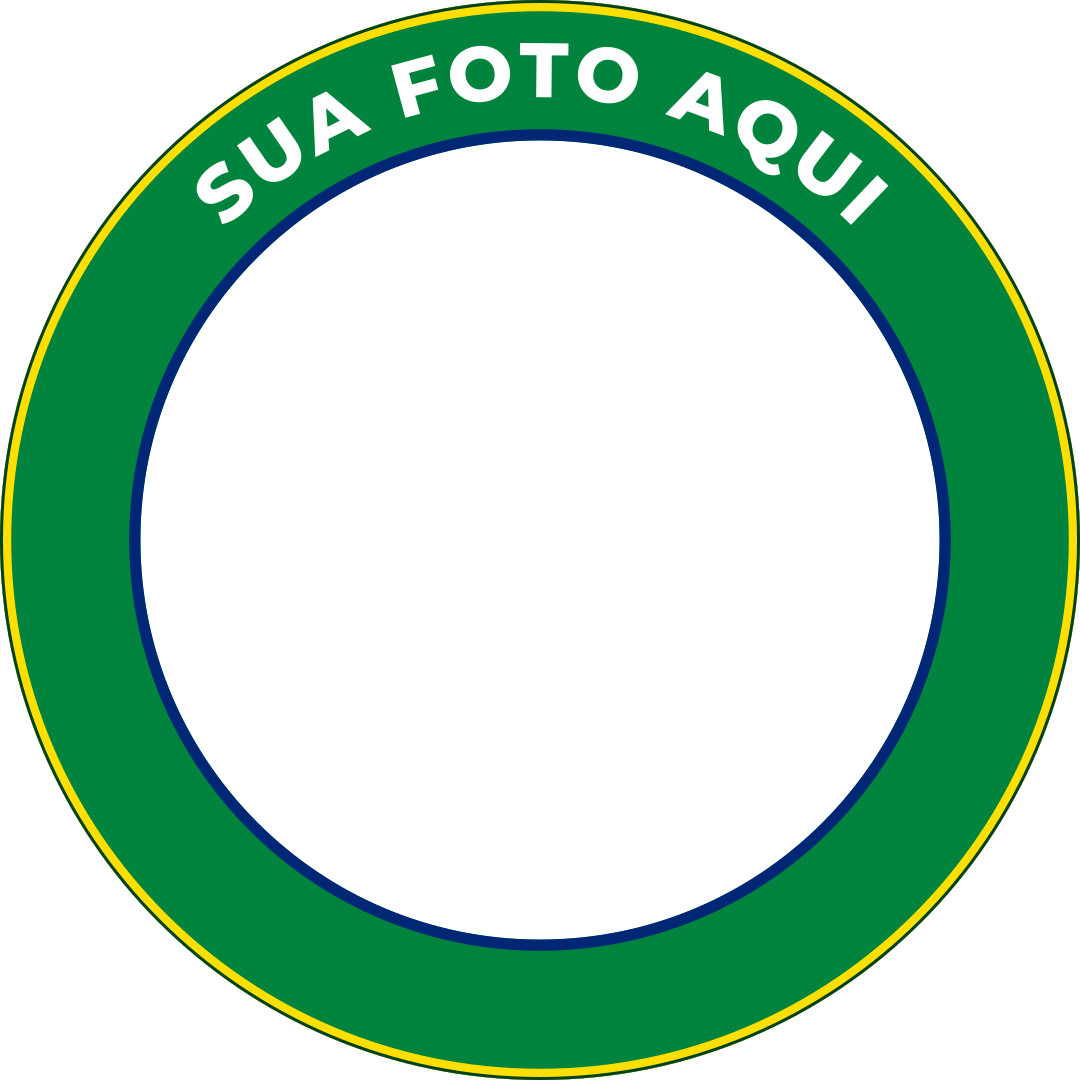
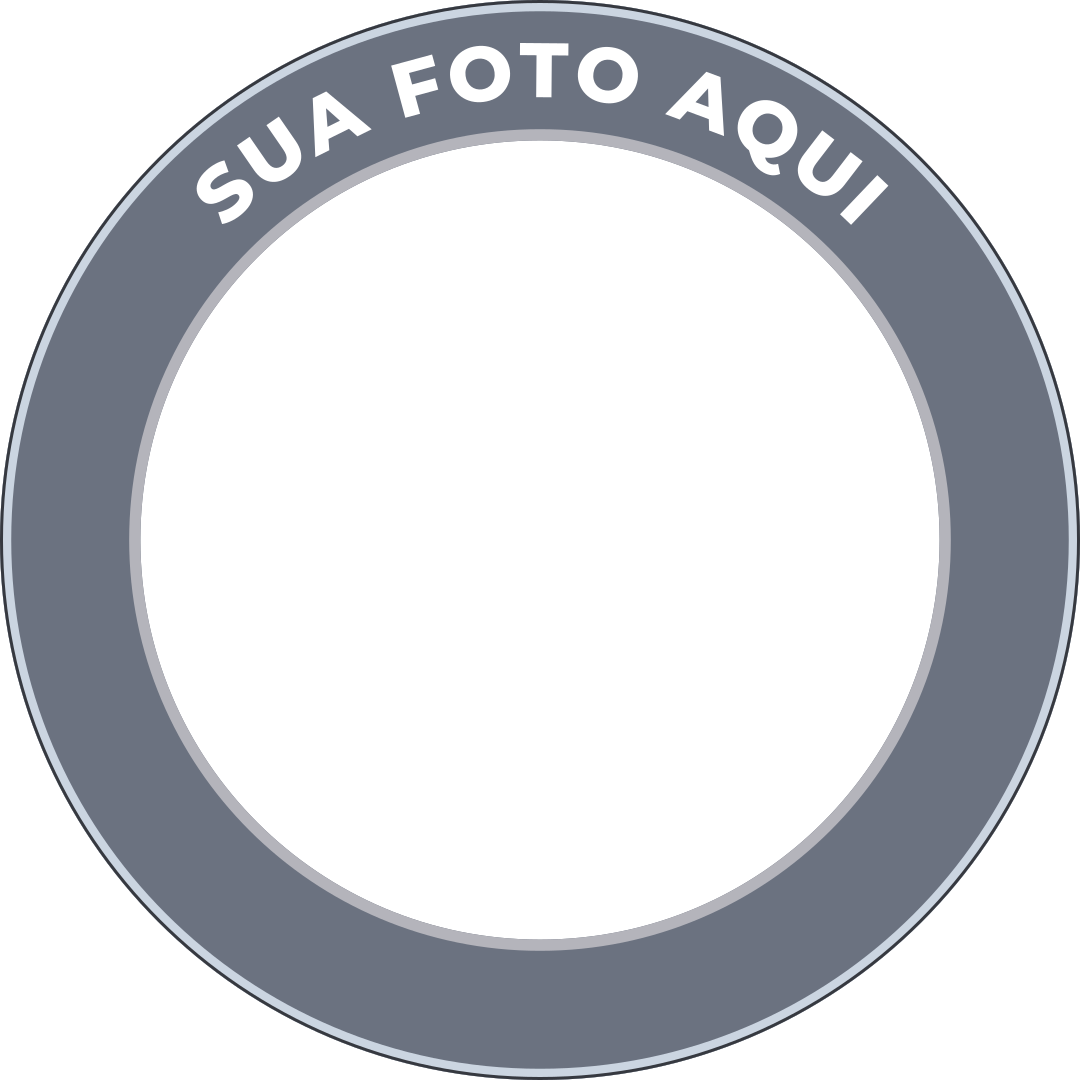
fix: moldura neutra em grafite, twoColor so na Missao e /criar sem pre-selecao
A moldura neutra deixa de lembrar qualquer partido (teste contra todas
as cores de todos os partidos). Party.twoColor marca o unico partido de
duas cores. /criar sem ?c= valido mostra "Escolha uma moldura...", a
moldura neutra com silhueta e bloqueia o pagamento ate escolher. Com
movimento reduzido o hero monta so o slide neutro.

diff --git a/web/src/app/criar/FrameEditor.tsx b/web/src/app/criar/FrameEditor.tsx
@@ -7,6 +7,7 @@ import { CANDIDATES, FRAME_SIZE, MAX_ZOOM, PHOTO_MAX_BYTES, PHOTO_MIME_TYPES, PR
 import type { Framing } from "@moldura/common";
 import { createOrder, messageOf } from "@/lib/api";
 import { sortCandidatesAlphabetically } from "@/lib/candidate-order";
+import { canSubmit, previewFrameSrc } from "@/lib/frame-choice";
 import { OFFICE_OPTIONS } from "@/lib/offices";
 import { drawPreview } from "@/lib/preview";
 
@@ -49,7 +50,7 @@ export function FrameEditor({ initialCandidateId }: { initialCandidateId: string
         setError(FRAME_ERROR);
       }
     };
-    element.src = `/frames/${candidateId}.png`;
+    element.src = previewFrameSrc(candidateId);
 
     return () => {
       active = false;
@@ -172,7 +173,7 @@ export function FrameEditor({ initialCandidateId }: { initialCandidateId: string
   const candidateName = CANDIDATES.find((candidate) => candidate.id === candidateId)?.name ?? "";
 
   async function submit() {
-    if (!file || !frameReady) {
+    if (!file || !canSubmit({ candidateId, hasFile: true, hasImage: image !== null, frameReady, busy })) {
       return;
     }
 
@@ -204,7 +205,7 @@ export function FrameEditor({ initialCandidateId }: { initialCandidateId: string
         onKeyDown={moveByKey}
         role="img"
         tabIndex={0}
-        aria-label={`Prévia da sua foto com a moldura de ${candidateName}`}
+        aria-label={candidateName ? `Prévia da sua foto com a moldura de ${candidateName}` : "Prévia da sua foto com a moldura de exemplo; escolha uma moldura"}
       />
 
       <div>
@@ -213,6 +214,9 @@ export function FrameEditor({ initialCandidateId }: { initialCandidateId: string
 
         <label htmlFor="candidate">2. Moldura</label>
         <select id="candidate" value={candidateId} onChange={(event) => setCandidateId(event.target.value)}>
+          <option value="" disabled>
+            Escolha uma moldura…
+          </option>
           {OFFICE_OPTIONS.map((office) => {
             const group = sortCandidatesAlphabetically(candidatesBy(office.office));
 
@@ -250,7 +254,7 @@ export function FrameEditor({ initialCandidateId }: { initialCandidateId: string
         />
 
         <div className="row" style={{ marginTop: 20 }}>
-          <button className="btn" disabled={!file || !image || !frameReady || busy} onClick={submit}>
+          <button className="btn" disabled={!canSubmit({ candidateId, hasFile: file !== null, hasImage: image !== null, frameReady, busy })} onClick={submit}>
             {busy ? "Gerando Pix..." : `Baixar foto pronta • ${price}`}
           </button>
         </div>

diff --git a/api/src/scripts/frames.check.ts b/api/src/scripts/frames.check.ts
@@ -2,10 +2,19 @@ import { test } from "node:test";
 import assert from "node:assert/strict";
 import { readFile } from "node:fs/promises";
 import path from "node:path";
-import { CANDIDATES, CreateOrderSchema, findCandidate, findParty } from "@moldura/common";
+import { CANDIDATES, CreateOrderSchema, PARTIES, findCandidate, findParty } from "@moldura/common";
 import { NEUTRAL_FRAME, buildFrameSvg, missingGlyphs, renderPlaceholderFrame, validateFrame } from "@/scripts/placeholder-frame";
 
 const FRAMES_DIR = path.resolve("assets/frames");
+const MIN_PARTY_DISTANCE = 60;
+
+function rgbDistance(a: string, b: string): number {
+  const channels = (hex: string) => [1, 3, 5].map((index) => Number.parseInt(hex.slice(index, index + 2), 16));
+  const [ar, ag, ab] = channels(a);
+  const [br, bg, bb] = channels(b);
+
+  return Math.hypot(ar - br, ag - bg, ab - bb);
+}
 
 test("o placeholder passa no validador", async () => {
   const candidate = CANDIDATES[1];
@@ -113,9 +122,20 @@ test("a moldura neutra não usa as cores de nenhum partido", () => {
   assert.ok(svg.includes("<path"));
   assert.ok(!svg.includes("<text"));
 
+  // Nenhuma cor da moldura neutra pode ficar perto (distância RGB < 60) de qualquer cor de qualquer partido.
   for (const color of NEUTRAL_FRAME.colors) {
-    assert.ok(!["#e20e28", "#015aaa", "#022a59", "#ef5a23"].includes(color.toLowerCase()), color);
+    for (const party of PARTIES) {
+      for (const partyColor of [party.colors.primary, party.colors.secondary, party.colors.accent]) {
+        assert.ok(rgbDistance(color, partyColor) >= MIN_PARTY_DISTANCE, `${color} parece ${party.acronym} ${partyColor}`);
+      }
+    }
   }
+});
+
+test("o detector de cor de partido acusa uma paleta parecida", () => {
+  assert.ok(rgbDistance("#ffdf00", "#ffdf00") < MIN_PARTY_DISTANCE);
+  assert.ok(rgbDistance("#00843d", "#00923f") < MIN_PARTY_DISTANCE);
+  assert.ok(rgbDistance("#6b7280", "#ffffff") >= MIN_PARTY_DISTANCE);
 });
 
 test("Missão é amarelo e preto, com nome e número legíveis", () => {

diff --git a/web/src/lib/frame-choice.check.ts b/web/src/lib/frame-choice.check.ts
@@ -1,0 +1,32 @@
+import assert from "node:assert/strict";
+import { test } from "node:test";
+import { canSubmit, initialCandidateId, previewFrameSrc } from "./frame-choice";
+
+test("sem ?c= válido, nenhuma moldura vem escolhida (nada de pré-selecionar o primeiro candidato)", () => {
+  assert.equal(initialCandidateId(undefined), "");
+  assert.equal(initialCandidateId(""), "");
+  assert.equal(initialCandidateId("neutral"), "");
+  assert.equal(initialCandidateId("../lula"), "");
+  assert.equal(initialCandidateId(["zema", "lula"]), "");
+});
+
+test("com ?c= válido, a moldura do candidato vem escolhida", () => {
+  assert.equal(initialCandidateId("zema"), "zema");
+  assert.equal(initialCandidateId("lula"), "lula");
+});
+
+test("a prévia usa a moldura neutra em tamanho cheio enquanto nada foi escolhido", () => {
+  assert.equal(previewFrameSrc(""), "/frames/neutral.png");
+  assert.equal(previewFrameSrc("zema"), "/frames/zema.png");
+});
+
+test("só dá para pagar com candidato escolhido, foto carregada e moldura pronta", () => {
+  const ready = { candidateId: "zema", hasFile: true, hasImage: true, frameReady: true, busy: false };
+
+  assert.equal(canSubmit(ready), true);
+  assert.equal(canSubmit({ ...ready, candidateId: "" }), false);
+  assert.equal(canSubmit({ ...ready, hasFile: false }), false);
+  assert.equal(canSubmit({ ...ready, hasImage: false }), false);
+  assert.equal(canSubmit({ ...ready, frameReady: false }), false);
+  assert.equal(canSubmit({ ...ready, busy: true }), false);
+});

diff --git a/web/src/lib/frame-choice.ts b/web/src/lib/frame-choice.ts
@@ -1,0 +1,27 @@
+import { findCandidate } from "@moldura/common";
+
+const NEUTRAL_PREVIEW_FRAME = "/frames/neutral.png";
+
+// Sem ?c= válido o /criar não escolhe ninguém: mostra a moldura neutra até a pessoa escolher.
+export function initialCandidateId(param: string | string[] | undefined): string {
+  if (typeof param !== "string" || !findCandidate(param)) {
+    return "";
+  }
+
+  return param;
+}
+
+// A prévia precisa da moldura em 1080 px (PNG), não do WebP reduzido da home.
+export function previewFrameSrc(candidateId: string): string {
+  if (!candidateId) {
+    return NEUTRAL_PREVIEW_FRAME;
+  }
+
+  return `/frames/${candidateId}.png`;
+}
+
+export type SubmitState = { candidateId: string; hasFile: boolean; hasImage: boolean; frameReady: boolean; busy: boolean };
+
+export function canSubmit(state: SubmitState): boolean {
+  return state.candidateId !== "" && state.hasFile && state.hasImage && state.frameReady && !state.busy;
+}

diff --git a/api/src/scripts/placeholder-frame.ts b/api/src/scripts/placeholder-frame.ts
@@ -10,8 +10,8 @@ import type { Candidate } from "@moldura/common";
 export type FrameSpec = Pick<Candidate, "id" | "frameName" | "colors"> & { number?: string };
 
 // Moldura de exemplo da home: não é candidato (não está em CANDIDATES, não vai para /criar nem para pedidos).
-// Cores inspiradas na bandeira (verde, amarelo, azul), diferentes das de qualquer partido; sem selo de número.
-export const NEUTRAL_FRAME: FrameSpec = { id: "neutral", frameName: "SUA FOTO AQUI", colors: ["#00843d", "#ffdf00", "#002776"] };
+// Paleta neutra (grafite e cinzas claros), longe de todas as cores de partido (testado); texto branco; sem selo de número.
+export const NEUTRAL_FRAME: FrameSpec = { id: "neutral", frameName: "SUA FOTO AQUI", colors: ["#6b7280", "#cbd5e1", "#b4b4bb"] };
 
 const FONT_URL = new URL("../../assets/fonts/montserrat-latin-800-normal.woff", import.meta.url);
 const MAX_ARC_DEGREES = 100;

diff --git a/common/src/common.check.ts b/common/src/common.check.ts
@@ -104,9 +104,15 @@ test("partidos: siglas e números únicos, hex válidos e contraste mínimo entr
 
     assert.ok(distance(primary, secondary) >= 60, party.acronym);
     assert.ok(distance(primary, accent) >= 60, party.acronym);
-    // Partido de duas cores (ex.: Missão, amarelo e preto) repete a mesma cor em secondary e accent.
-    assert.ok(secondary === accent || distance(secondary, accent) >= 60, party.acronym);
+    // Só partido marcado como de duas cores (twoColor) pode repetir a cor em secondary e accent.
+    if (party.twoColor) {
+      assert.equal(secondary, accent, party.acronym);
+    } else {
+      assert.ok(distance(secondary, accent) >= 60, party.acronym);
+    }
   }
+
+  assert.deepEqual(PARTIES.filter((party) => party.twoColor).map((party) => party.acronym), ["MISSÃO"]);
 });
 
 test("findParty acha por sigla e os nomes novos estão corretos", () => {

diff --git a/common/src/parties.ts b/common/src/parties.ts
@@ -4,6 +4,8 @@ export type Party = {
   number: string;
   colors: { primary: string; secondary: string; accent: string };
   colorsEstimated: boolean;
+  // Partido de duas cores: secondary e accent são iguais de propósito (ex.: Missão, amarelo e preto).
+  twoColor?: true;
 };
 
 // Só dados públicos: sigla, nome, número e cores (nenhum logotipo é copiado).
@@ -159,6 +161,7 @@ export const PARTIES: readonly Party[] = [
     // Amarelo e preto (onça do mascote); o amarelo vem da pesquisa (pt.wikipedia / CSS de missao.org.br).
     colors: { primary: "#fdbf35", secondary: "#000000", accent: "#000000" },
     colorsEstimated: true,
+    twoColor: true,
   },
   {
     acronym: "DC",

diff --git a/web/src/components/home/Hero.tsx b/web/src/components/home/Hero.tsx
@@ -69,11 +69,15 @@ export function Hero() {
     function sync() {
       stop();
 
+      // Movimento reduzido: só o slide neutro fica montado (nenhuma imagem de candidato é carregada).
       if (reduced.matches) {
         setActive(0);
+        setSlides([NEUTRAL_SLIDE]);
 
         return;
       }
+
+      setSlides(built);
 
       if (!document.hidden && built.length > 1) {
         timer = window.setInterval(() => {
@@ -82,7 +86,6 @@ export function Hero() {
       }
     }
 
-    setSlides(built);
     sync();
     reduced.addEventListener("change", sync);
     document.addEventListener("visibilitychange", sync);

diff --git a/web/src/app/criar/page.tsx b/web/src/app/criar/page.tsx
@@ -1,14 +1,13 @@
-import { CANDIDATES } from "@moldura/common";
 import { FrameEditor } from "@/app/criar/FrameEditor";
+import { initialCandidateId } from "@/lib/frame-choice";
 
 export default async function CreatePage({ searchParams }: { searchParams: Promise<{ c?: string }> }) {
   const { c } = await searchParams;
-  const initial = CANDIDATES.find((candidate) => candidate.id === c) ?? CANDIDATES[0];
 
   return (
     <main className="wrap">
       <h2>Criar minha moldura</h2>
-      <FrameEditor initialCandidateId={initial.id} />
+      <FrameEditor initialCandidateId={initialCandidateId(c)} />
     </main>
   );
 }

diff --git a/web/src/lib/preview.ts b/web/src/lib/preview.ts
@@ -53,8 +53,16 @@ export function drawPreview(
 
     ctx.drawImage(image, placement.left, placement.top, placement.width, placement.height);
   } else {
-    ctx.fillStyle = "#e5e7eb";
+    // Sem foto: silhueta genérica (a mesma da home) até a pessoa escolher a foto.
+    ctx.fillStyle = "#dfe6f1";
     ctx.fillRect(0, 0, size, size);
+    ctx.fillStyle = "#a9b6c9";
+    ctx.beginPath();
+    ctx.arc(size / 2, size * 0.41, size * 0.15, 0, Math.PI * 2);
+    ctx.fill();
+    ctx.beginPath();
+    ctx.ellipse(size / 2, size * 0.98, size * 0.33, size * 0.32, 0, Math.PI, 0);
+    ctx.fill();
   }
 
   ctx.restore();

diff --git a/README.md b/README.md
@@ -35,7 +35,7 @@ Os arquivos públicos `/frames/<id>.png` (servidos pelo web) são as molduras **
 - A home (`web/src/app/page.tsx` + `web/src/components/home/`) é toda animada só com CSS (`@keyframes` de `transform`/`opacity`) e um `Reveal` com `IntersectionObserver`; sem biblioteca de animação, sem fontes, imagens ou scripts externos (o CSP não mudou). Com `prefers-reduced-motion: reduce` tudo fica parado no estado final e o avatar do topo não troca.
 - Ilustrações: `web/public/art/<id>.webp` (640×640), **estilizadas e geradas por IA** — não são fotos nem material oficial. Só entram as aprovadas; ao aprovar uma nova, copie o arquivo e acrescente o id em `ART_IDS` (`web/src/lib/art.ts`). Sem ilustração, o cartão mostra uma silhueta genérica com a moldura por cima.
 - Toda ilustração mostra o selo `AiBadge` ("IA", `aria-label` "Ilustração gerada por IA") no canto superior direito, e o aviso "Ilustrações geradas por IA, estilizadas — não são fotos nem material oficial das campanhas." aparece perto do topo da home e no rodapé. O selo é só para a arte do site: nunca vai sobre a foto do usuário.
-- Topo neutro: o hero sempre abre na moldura de exemplo `neutral` (verde/amarelo/azul, "SUA FOTO AQUI", sem número; gerada pelo `frames:build`, mas não é candidato nem aceita em pedidos) e depois passa por todos os candidatos em ordem embaralhada a cada visita (`web/src/lib/hero-slides.ts`), 3,5 s cada. Com movimento reduzido fica no neutro. Os cartões e o `<select>` do `/criar` seguem a ordem alfabética (`sortCandidatesAlphabetically`).
+- Topo neutro: o hero sempre abre na moldura de exemplo `neutral` (grafite e cinzas, longe das cores de todos os partidos — testado —, "SUA FOTO AQUI", sem número; gerada pelo `frames:build`, mas não é candidato nem aceita em pedidos) e depois passa por todos os candidatos em ordem embaralhada a cada visita (`web/src/lib/hero-slides.ts`), 3,5 s cada. Com movimento reduzido fica no neutro. Os cartões e o `<select>` do `/criar` seguem a ordem alfabética (`sortCandidatesAlphabetically`). Sem `?c=` válido, o `/criar` não escolhe ninguém: mostra "Escolha uma moldura…", a moldura neutra com a silhueta e o botão de pagar fica desabilitado até escolher.
 - Exemplos com abas Presidente | Governador; em Governador há o seletor de estado (27 UFs) e "Governadores: em breve" até existirem candidatos (o filtro já usa `candidatesBy`). Em `/criar` o seletor de moldura agrupa por cargo (`<optgroup>`) e o de estado fica desabilitado.
 - Faixa de partidos: sigla, número e cor (sem logotipos); quando a cor do partido não dá contraste AA com o texto, ela é escurecida só o necessário (`swatch` em `web/src/lib/art.ts`).
 - `web/scripts/sync-frames.mjs` (predev/prebuild) copia os PNG de 1080 px e gera `public/frames/<id>.webp` de 480 px com `sharp` (devDependency do web); a home usa o WebP e o `/criar` continua com o PNG, que o canvas da prévia precisa.
